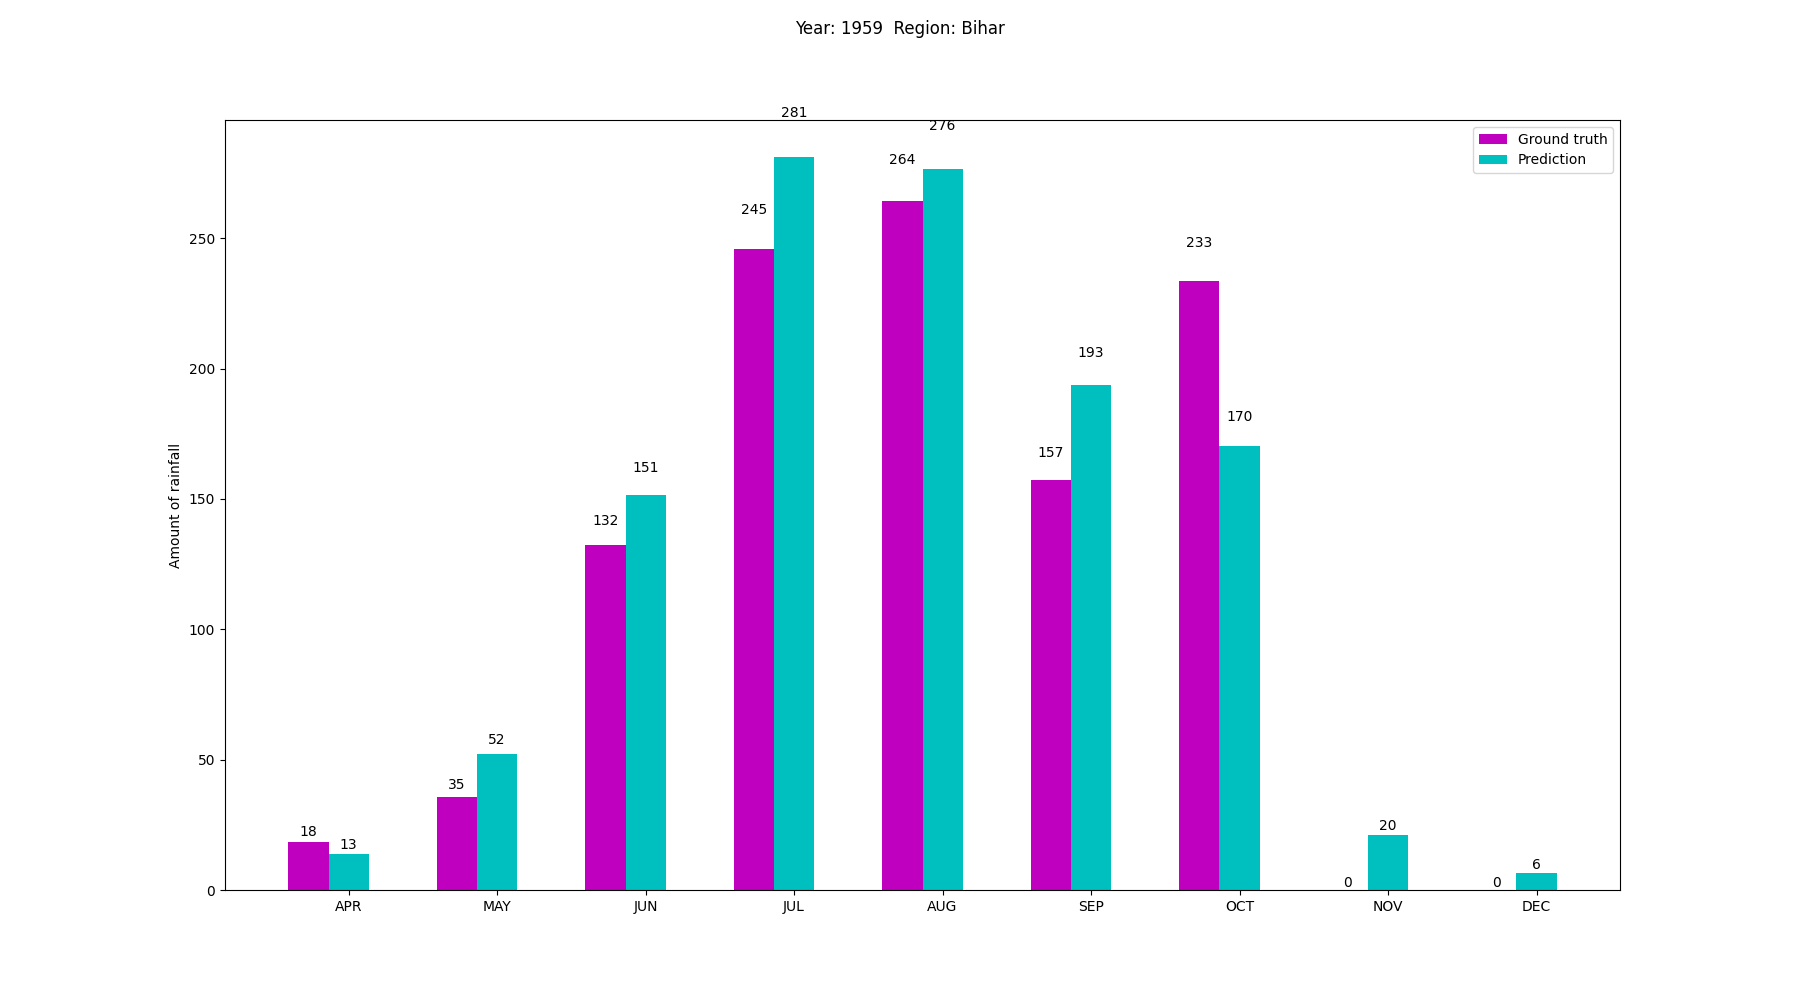
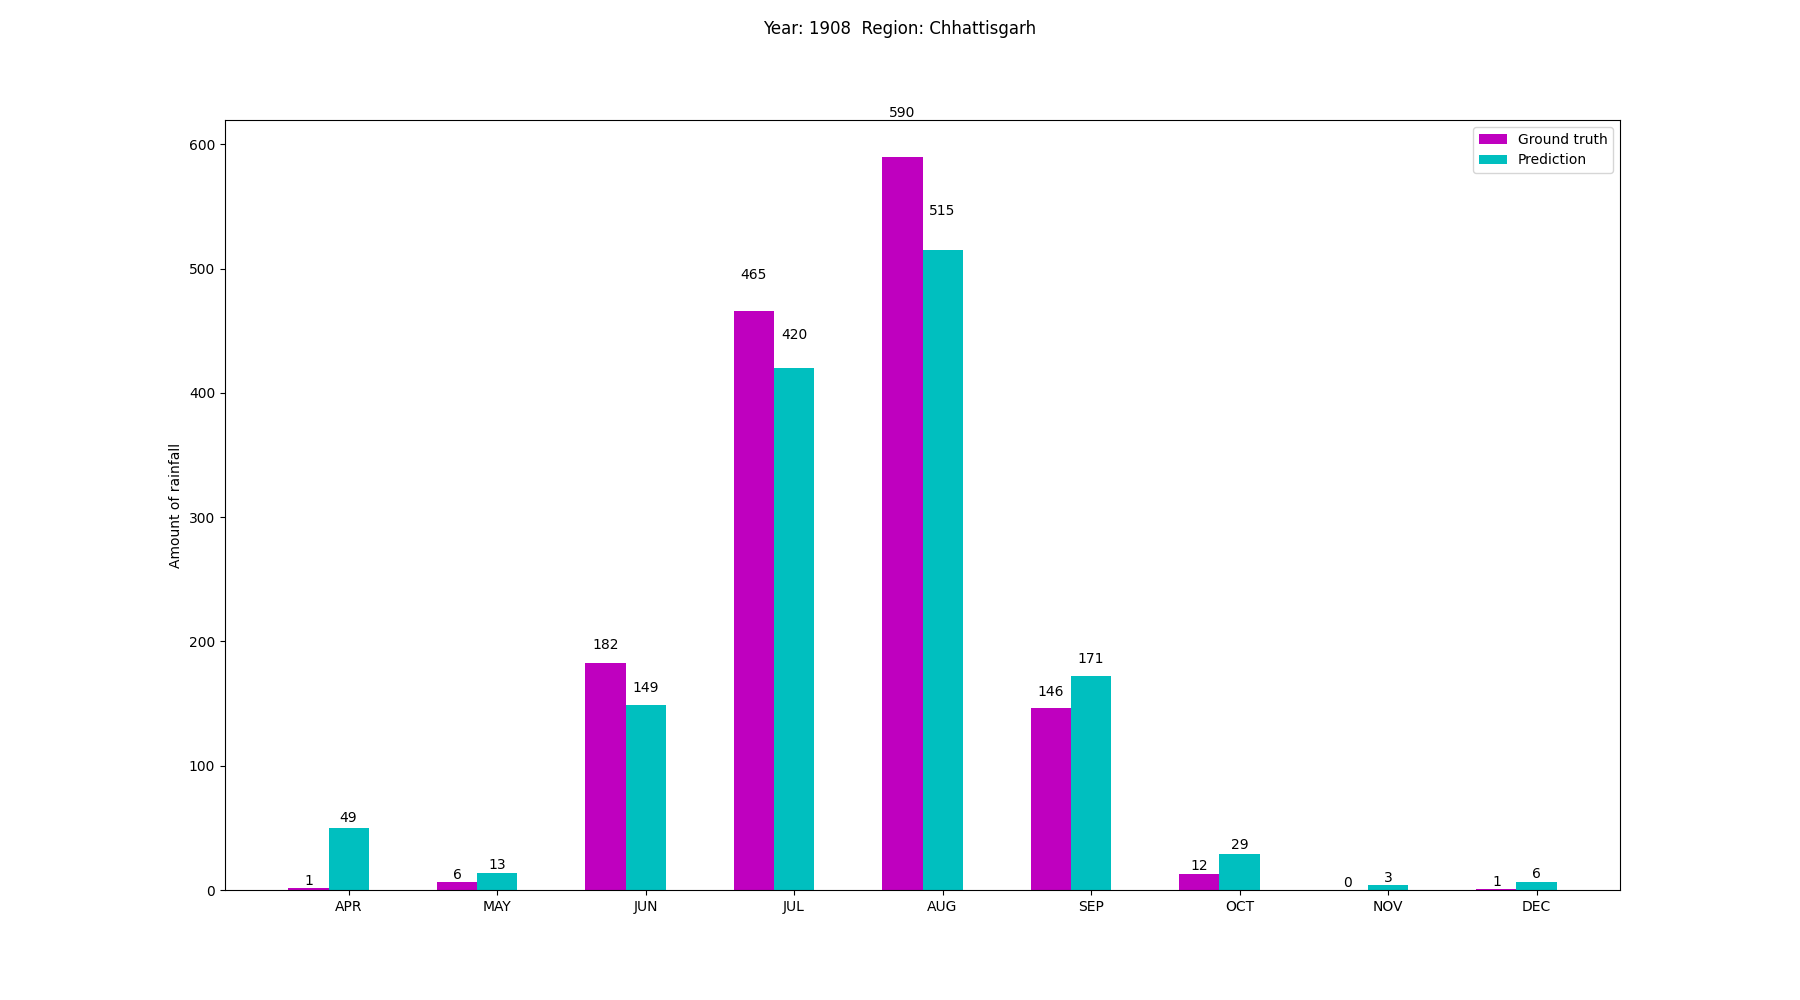
Path Correction and UI Improvement

diff --git a/SourceCode/templates/rainfall_entry.html b/SourceCode/templates/rainfall_entry.html
@@ -1,198 +1,165 @@
-<!doctype html>
+<!DOCTYPE html>
 <html lang="en">
 
 <head>
-    <meta charset="UTF-8">
-    <meta name="viewport" content="width=device-width, initial-scale=1">
-    <title>Rainfall Prediction</title>
-    <link rel="stylesheet" href="\static\css\rainfall_prediction.css">
+  <meta charset="UTF-8" />
+  <meta name="viewport" content="width=device-width, initial-scale=1.0" />
+  <title>Rainfall Analysis</title>
+  <link href="https://cdn.jsdelivr.net/npm/bootstrap@5.3.0/dist/css/bootstrap.min.css" rel="stylesheet" />
+  <style>
+    body {
+      background: linear-gradient(to right, #2c3e50, #db34bf);
+      color: white;
+      min-height: 100vh;
+      display: flex;
+      flex-direction: column;
+    }
+
+    .navbar {
+      background-color: transparent;
+    }
+
+    .navbar-brand {
+      color: #FFD700;
+      font-size: 1.8rem;
+      font-weight: bold;
+    }
+
+    .hero-section {
+      text-align: center;
+      padding: 60px 20px 30px;
+    }
+
+    .hero-section h1 {
+      font-size: 3rem;
+      font-weight: bold;
+      color: #FFD700;
+    }
+
+    .form-card {
+      background: rgba(255, 255, 255, 0.1);
+      border-radius: 15px;
+      padding: 30px;
+      margin: 0 auto;
+      width: 100%;
+      max-width: 600px;
+      width: 75%;
+      box-shadow: 0 8px 20px rgba(0, 0, 0, 0.3);
+    }
+
+    label {
+      font-weight: bold;
+      color: #FFD700;
+    }
+
+    select,
+    button {
+      border-radius: 8px !important;
+    }
+
+    .btn-submit {
+      background-color: #FFD700;
+      color: #2c3e50;
+      border: none;
+      font-weight: bold;
+      padding: 10px 20px;
+      transition: 0.3s;
+    }
+
+    .btn-submit:hover {
+      background-color: white;
+      color: #db34bf;
+    }
+
+    footer {
+      margin-top: auto;
+      padding: 20px 0;
+      text-align: center;
+      color: #aaa;
+    }
+  </style>
 </head>
 
 <body>
+  <!-- Navbar -->
+  <nav class="navbar navbar-expand-lg navbar-dark">
+    <div class="container">
+      <a class="navbar-brand" href="#">RainAnalysis</a>
+    </div>
+  </nav>
 
-    
-    <header id="header">
-        <h1>Rainfall Prediction</h1>
-    </header>
-    <main>
-        <section id="contact">
-            <!-- <h3>Rainfall Data Form</h3> -->
-            <!-- <form action="{{ url_for('rainfall_entry')}}" method="post"> -->
-            <form action="#" method="post">
-                <div>
-                    <label for="inputRiver">Select Subdivisions:</label>
-                    <select name="SEL" required>
-                        <option class="option1" disabled selected>Choose...</option>
-                        <option value="Andaman & Nicobar Islands">Andaman & Nicobar Islands</option>
-                        <option value="Arunachal Pradesh">Arunachal Pradesh</option>
-                        <option value="Assam & Meghalaya">Assam & Meghalaya</option>
-                        <option value="Bihar">Bihar</option>
-                        <option value="Chhattisgarh">Chhattisgarh</option>
-                        <option value="Coastal Andhra Pradesh">Coastal Andhra Pradesh</option>
-                        <option value="Coastal Karnataka">Coastal Karnataka</option>
-                        <option value="East Madhya Pradesh">East Madhya Pradesh</option>
-                        <option value="East Rajasthan">East Rajasthan</option>
-                        <option value="East Uttar Pradesh">East Uttar Pradesh</option>
-                        <option value="Gangetic West Bengal">Gangetic West Bengal</option>
-                        <option value="Gujarat Region">Gujarat Region</option>
-                        <option value="Haryana Delhi & Chandigarh">Haryana Delhi & Chandigarh</option>
-                        <option value="Himachal Pradesh">Himachal Pradesh</option>
-                        <option value="Jammu & Kashmir">Jammu & Kashmir</option>
-                        <option value="Jharkhand">Jharkhand</option>
-                        <option value="Kerala">Kerala</option>
-                        <option value="Konkan & Goa">Konkan & Goa</option>
-                        <option value="Lakshadweep">Lakshadweep</option>
-                        <option value="Madhya Maharashtra">Madhya Maharashtra</option>
-                        <option value="Matathwada">Matathwada</option>
-                        <option value="Naga Mani Mizo Tripura">Naga Mani Mizo Tripura</option>
-                        <option value="North Interior Karnataka">North Interior Karnataka</option>
-                        <option value="Orissa">Orissa</option>
-                        <option value="Punjab">Punjab</option>
-                        <option value="Rayalseema">Rayalseema</option>
-                        <option value="Saurashtra & Kutch">Saurashtra & Kutch</option>
-                        <option value="South Interior Karnataka">South Interior Karnataka</option>
-                        <option value="Sub Himalayan West Bengal & Sikkim">Sub Himalayan West Bengal & Sikkim</option>
-                        <option value="Tamil Nadu">Tamil Nadu</option>
-                        <option value="Telangana">Telangana</option>
-                        <option value="Uttarakhand">Uttarakhand</option>
-                        <option value="Vidarbha">Vidarbha</option>
-                        <option value="West Madhya Pradesh">West Madhya Pradesh</option>
-                        <option value="West Rajasthan">West Rajasthan</option>
-                        <option value="West Uttar Pradesh">West Uttar Pradesh</option>
-                    </select>
-                </div>
-                <div>
-                    <label for="Year">Year:</label>
-                    <select name="Year" required>
-                    <option class="option1" value=1901>1901</option>
-                        <option value=1902>1902</option>
-                        <option value=1903>1903</option>
-                        <option value=1904>1904</option>
-                        <option value=1905>1905</option>
-                        <option value=1906>1906</option>
-                        <option value=1907>1907</option>
-                        <option value=1908>1908</option>
-                        <option value=1909>1909</option>
-                        <option value=1910>1910</option>
-                        <option value=1911>1911</option>
-                        <option value=1912>1912</option>
-                        <option value=1913>1913</option>
-                        <option value=1914>1914</option>
-                        <option value=1915>1915</option>
-                        <option value=1916>1916</option>
-                        <option value=1917>1917</option>
-                        <option value=1918>1918</option>
-                        <option value=1919>1919</option>
-                        <option value=1920>1920</option>
-                        <option value=1921>1921</option>
-                        <option value=1922>1922</option>
-                        <option value=1923>1923</option>
-                        <option value=1924>1924</option>
-                        <option value=1925>1925</option>
-                        <option value=1926>1926</option>
-                        <option value=1927>1927</option>
-                        <option value=1928>1928</option>
-                        <option value=1929>1929</option>
-                        <option value=1930>1930</option>
-                        <option value=1931>1931</option>
-                        <option value=1932>1932</option>
-                        <option value=1933>1933</option>
-                        <option value=1934>1934</option>
-                        <option value=1935>1935</option>
-                        <option value=1936>1936</option>
-                        <option value=1937>1937</option>
-                        <option value=1938>1938</option>
-                        <option value=1939>1939</option>
-                        <option value=1940>1940</option>
-                        <option value=1941>1941</option>
-                        <option value=1942>1942</option>
-                        <option value=1943>1943</option>
-                        <option value=1944>1944</option>
-                        <option value=1945>1945</option>
-                        <option value=1946>1946</option>
-                        <option value=1947>1947</option>
-                        <option value=1948>1948</option>
-                        <option value=1949>1949</option>
-                        <option value=1950>1950</option>
-                        <option value=1951>1951</option>
-                        <option value=1952>1952</option>
-                        <option value=1953>1953</option>
-                        <option value=1954>1954</option>
-                        <option value=1955>1955</option>
-                        <option value=1956>1956</option>
-                        <option value=1957>1957</option>
-                        <option value=1958>1958</option>
-                        <option value=1959>1959</option>
-                        <option value=1960>1960</option>
-                        <option value=1961>1961</option>
-                        <option value=1962>1962</option>
-                        <option value=1963>1963</option>
-                        <option value=1964>1964</option>
-                        <option value=1965>1965</option>
-                        <option value=1966>1966</option>
-                        <option value=1967>1967</option>
-                        <option value=1968>1968</option>
-                        <option value=1969>1969</option>
-                        <option value=1970>1970</option>
-                        <option value=1971>1971</option>
-                        <option value=1972>1972</option>
-                        <option value=1973>1973</option>
-                        <option value=1974>1974</option>
-                        <option value=1975>1975</option>
-                        <option value=1976>1976</option>
-                        <option value=1977>1977</option>
-                        <option value=1978>1978</option>
-                        <option value=1979>1979</option>
-                        <option value=1980>1980</option>
-                        <option value=1981>1981</option>
-                        <option value=1982>1982</option>
-                        <option value=1983>1983</option>
-                        <option value=1984>1984</option>
-                        <option value=1985>1985</option>
-                        <option value=1986>1986</option>
-                        <option value=1987>1987</option>
-                        <option value=1988>1988</option>
-                        <option value=1989>1989</option>
-                        <option value=1990>1990</option>
-                        <option value=1991>1991</option>
-                        <option value=1992>1992</option>
-                        <option value=1993>1993</option>
-                        <option value=1994>1994</option>
-                        <option value=1995>1995</option>
-                        <option value=1996>1996</option>
-                        <option value=1997>1997</option>
-                        <option value=1998>1998</option>
-                        <option value=1999>1999</option>
-                        <option value=2000>2000</option>
-                        <option value=2001>2001</option>
-                        <option value=2002>2002</option>
-                        <option value=2003>2003</option>
-                        <option value=2004>2004</option>
-                        <option value=2005>2005</option>
-                        <option value=2006>2006</option>
-                        <option value=2007>2007</option>
-                        <option value=2008>2008</option>
-                        <option value=2009>2009</option>
-                        <option value=2010>2010</option>
-                        <option value=2011>2011</option>
-                        <option value=2012>2012</option>
-                        <option value=2013>2013</option>
-                        <option value=2014>2014</option>
-                        <option value=2015>2015</option>
-                        <option value=2016>2016</option>
-                        <option value=2017>2017</option>
-                        <option value=2017>2018</option>
-                        <option value=2017>2019</option>
-                        <option value=2017>2021</option>
-                    </select>
-                </div>
-                <div>
-                    <button type="submit">Predict</button>
-                </div>
-            </form>
-        </section>
-    </main>
+  <!-- Hero Section -->
+  <div class="hero-section">
+    <h1>Rainfall Analysis</h1>
+  </div>
 
+  <!-- Form Section -->
+  <div class="container">
+    <div class="form-card">
+      <form action="{{ url_for('rainfall_result') }}" method="post">
+        <div class="mb-4">
+          <label for="inputRiver" class="form-label">Select Subdivision:</label>
+          <select name="SEL" class="form-select" required>
+            <option disabled selected>Choose...</option>
+            <option value="Andaman & Nicobar Islands">Andaman & Nicobar Islands</option>
+            <option value="Arunachal Pradesh">Arunachal Pradesh</option>
+            <option value="Assam & Meghalaya">Assam & Meghalaya</option>
+            <option value="Bihar">Bihar</option>
+            <option value="Chhattisgarh">Chhattisgarh</option>
+            <option value="Coastal Andhra Pradesh">Coastal Andhra Pradesh</option>
+            <option value="Coastal Karnataka">Coastal Karnataka</option>
+            <option value="East Madhya Pradesh">East Madhya Pradesh</option>
+            <option value="East Rajasthan">East Rajasthan</option>
+            <option value="East Uttar Pradesh">East Uttar Pradesh</option>
+            <option value="Gangetic West Bengal">Gangetic West Bengal</option>
+            <option value="Gujarat Region">Gujarat Region</option>
+            <option value="Haryana Delhi & Chandigarh">Haryana Delhi & Chandigarh</option>
+            <option value="Himachal Pradesh">Himachal Pradesh</option>
+            <option value="Jammu & Kashmir">Jammu & Kashmir</option>
+            <option value="Jharkhand">Jharkhand</option>
+            <option value="Kerala">Kerala</option>
+            <option value="Konkan & Goa">Konkan & Goa</option>
+            <option value="Lakshadweep">Lakshadweep</option>
+            <option value="Madhya Maharashtra">Madhya Maharashtra</option>
+            <option value="Matathwada">Matathwada</option>
+            <option value="Naga Mani Mizo Tripura">Naga Mani Mizo Tripura</option>
+            <option value="North Interior Karnataka">North Interior Karnataka</option>
+            <option value="Orissa">Orissa</option>
+            <option value="Punjab">Punjab</option>
+            <option value="Rayalseema">Rayalseema</option>
+            <option value="Saurashtra & Kutch">Saurashtra & Kutch</option>
+            <option value="South Interior Karnataka">South Interior Karnataka</option>
+            <option value="Sub Himalayan West Bengal & Sikkim">Sub Himalayan West Bengal & Sikkim</option>
+            <option value="Tamil Nadu">Tamil Nadu</option>
+            <option value="Telangana">Telangana</option>
+            <option value="Uttarakhand">Uttarakhand</option>
+            <option value="Vidarbha">Vidarbha</option>
+            <option value="West Madhya Pradesh">West Madhya Pradesh</option>
+            <option value="West Rajasthan">West Rajasthan</option>
+            <option value="West Uttar Pradesh">West Uttar Pradesh</option>
+          </select>
+        </div>
+
+        <div class="mb-4">
+          <label for="Year" class="form-label">Year:</label>
+          <select name="Year" class="form-select" required>
+            {% for year in range(1901, 2022) %}
+            <option value="{{ year }}">{{ year }}</option>
+            {% endfor %}
+          </select>
+        </div>
+
+        <div class="text-center">
+          <button type="submit" class="btn btn-submit">Analyze</button>
+        </div>
+      </form>
+    </div>
+  </div>
+
+  <!-- Footer -->
+  <footer>
+    <p>© 2025 RainAnalysis. All rights reserved.</p>
+  </footer>
 </body>
 
 </html>